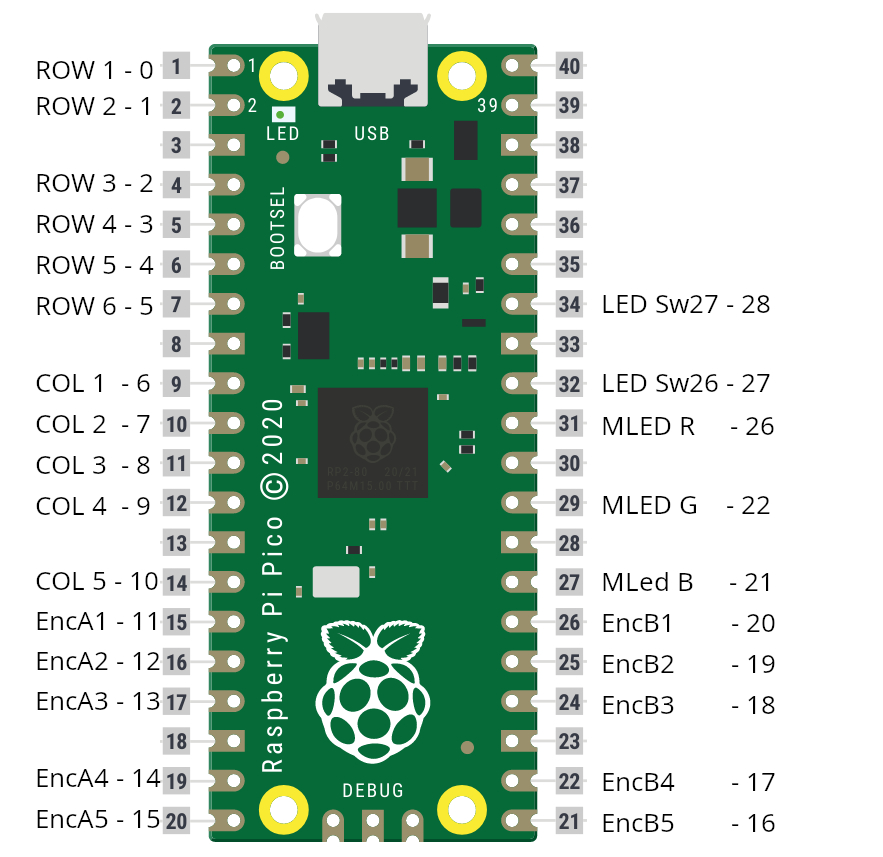
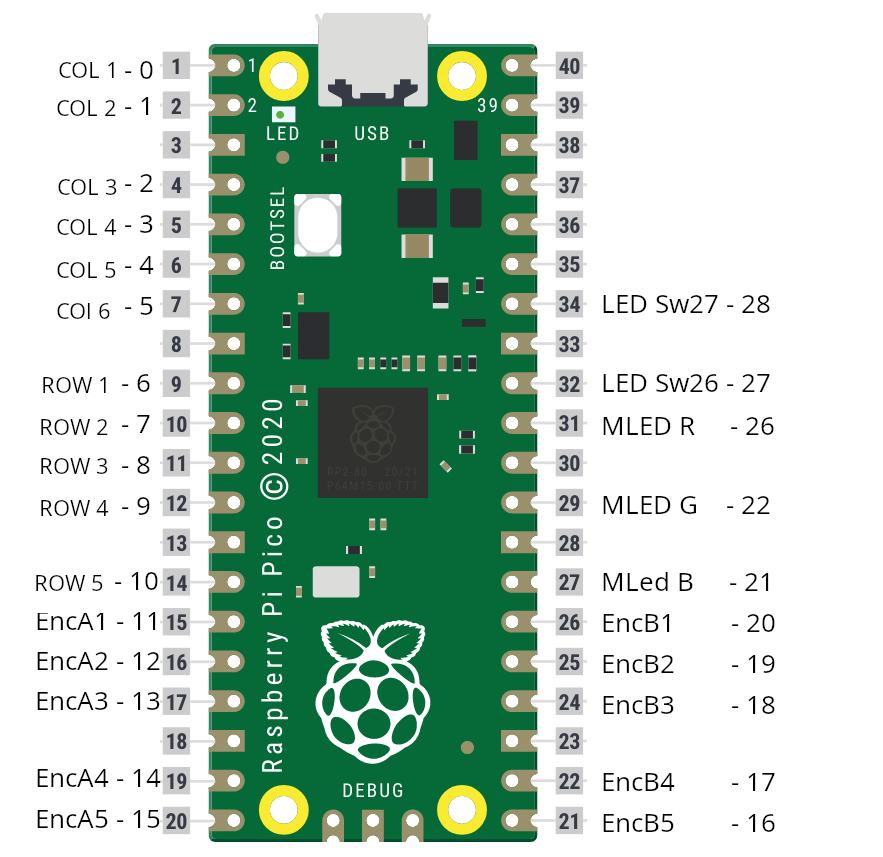
Encoders done

diff --git a/matrix.py b/matrix.py
@@ -48,7 +48,7 @@ class ButtonMatrix:
                 if row.value != 1: continue
 
                 if col_num == 5:
-                    button_num = 25 + row_num + 2
+                    button_num = 38 + row_num 
                 else:
                     button_num = (row_num + 2)* 5 + col_num + 1
      
@@ -78,7 +78,7 @@ class ButtonMatrix:
                 if row.value == self.switch_status[num]: continue
                 self.switch_status[num] = row.value
                 if col_num == 5:
-                    button_num = 25 + row_num
+                    button_num = 36 + row_num
                 else:
                     button_num = (row_num)* 5 + col_num + 1
                 if row.value == 1:
@@ -99,3 +99,44 @@ class ButtonMatrix:
     def ReleaseButton(self, button):
         print(f"Release Button; {button}")
 
+
+class Encoders:
+
+    def __init__(self, encoder_pins):
+        
+        self.a = []
+        self.b = []
+        self.last = [0] * len(encoder_pins)
+        for pin in encoder_pins:
+            encoder_a = digitalio.DigitalInOut(pin[0])
+            encoder_b = digitalio.DigitalInOut(pin[1])
+
+            encoder_a.switch_to_input(pull = digitalio.Pull.DOWN)
+            encoder_b.switch_to_input(pull = digitalio.Pull.DOWN)
+
+            self.a.append(encoder_a)
+            self.b.append(encoder_b)
+
+    def check(self):
+        for i, (enc_a, enc_b) in enumerate(zip(self.a, self.b)):
+            a_current = enc_a.value
+            b_current = enc_b.value
+            # Checks movement
+            if self.last[i] != a_current & a_current == 1:
+                # Anticlockwise 
+                if a_current != b_current:
+                    self.ClickButton(2 * i + 26)
+                # Clockwise
+                else:
+                    self.ClickButton(2 * i + 27)
+            self.last[i] = a_current
+    
+
+    def ClickButton(self, button):
+        print(f"Click Button; {button}")
+    
+    def PressButton(self, button):
+        print(f"Press Button; {button}")
+
+    def ReleaseButton(self, button):
+        print(f"Release Button; {button}")

diff --git a/code.py b/code.py
@@ -3,7 +3,7 @@ import digitalio
 import usb_hid
 import time
 
-from matrix import ButtonMatrix
+from matrix import ButtonMatrix, Encoders
 
 from hid_gamepad import Gamepad
 
@@ -21,7 +21,7 @@ mediacontrol = ConsumerControl(usb_hid.devices)
 # gp = Gamepad(usb_hid.devices)
 
 #Define the Modificador button
-MODE = 27
+MODE = 38
 
 #Define the current mode 
 mode = 0
@@ -49,6 +49,12 @@ switch_row_pins = (board.GP6,board.GP7)
 
 matrix = ButtonMatrix(col_pins, row_pins, switch_col_pins, switch_row_pins, MODE)
 
+
+# Encoder Pins
+enc = [(board.GP11, board.GP20), (board.GP12, board.GP19), (board.GP13, board.GP18), (board.GP14, board.GP17), (board.GP15, board.GP16)]
+encoders = Encoders(enc)
+
+
 # Switches the mode button color to input 
 def ModeColorSelect(color):
     global indicator_led
@@ -67,7 +73,6 @@ def ModeLongPress():
     start = time.monotonic() 
     color = mode
     while True:
-        print(start-time.monotonic())
         if time.monotonic() - start > 1.5:
             color += 1
             if color == 3: color = 0
@@ -99,7 +104,6 @@ def ModePress():
     
     
 while True:
-
     matrix.SwitchCheck()
     button = matrix.check()
 
@@ -108,3 +112,5 @@ while True:
         elif button == -2: ModeLongPress()
         
         print("mode:" + str(mode))
+
+    encoders.check()

diff --git a/hid_gamepad.py b/hid_gamepad.py
@@ -140,7 +140,7 @@ class Gamepad:
 
     @staticmethod
     def _validate_button_number(button):
-        if not 1 <= button <= 32:
+        if not 1 <= button <= 64:
             raise ValueError("Button number must in range 1 to 32")
         return button 
 
